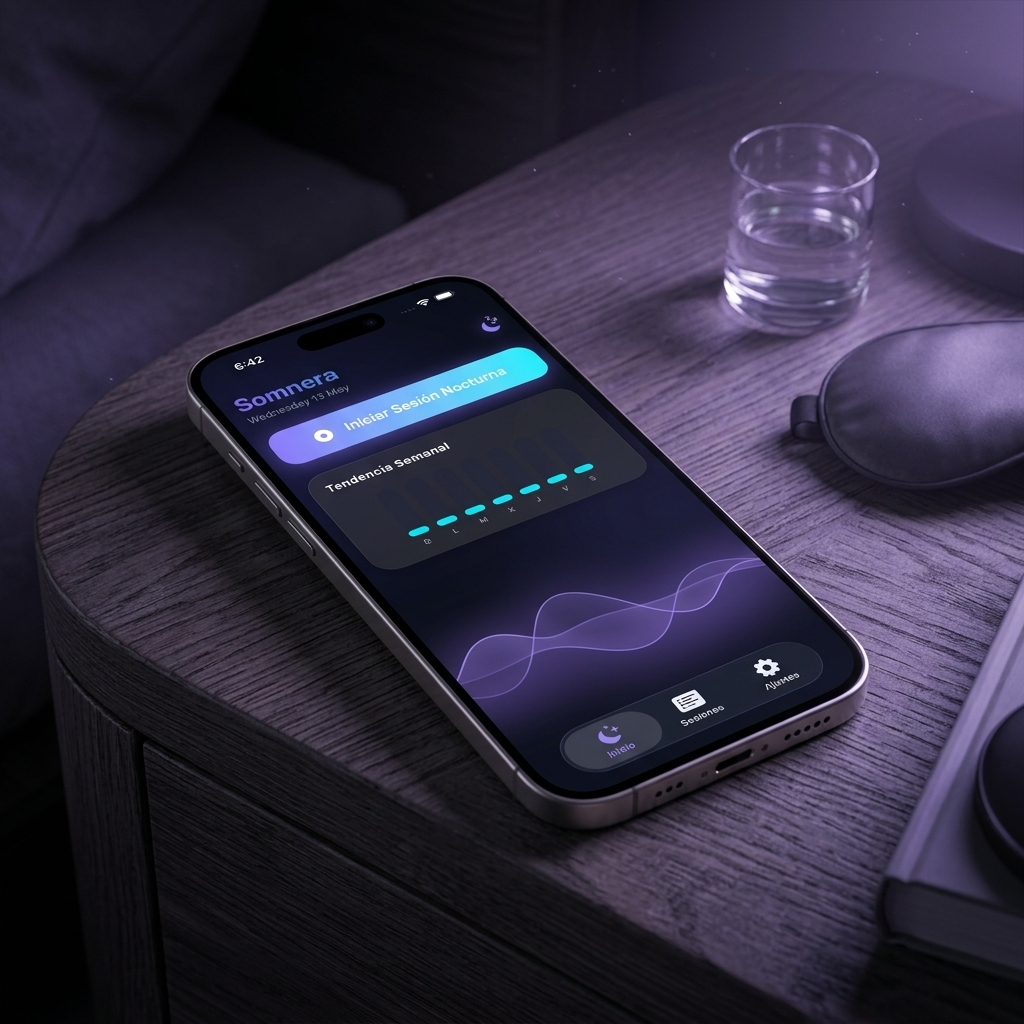
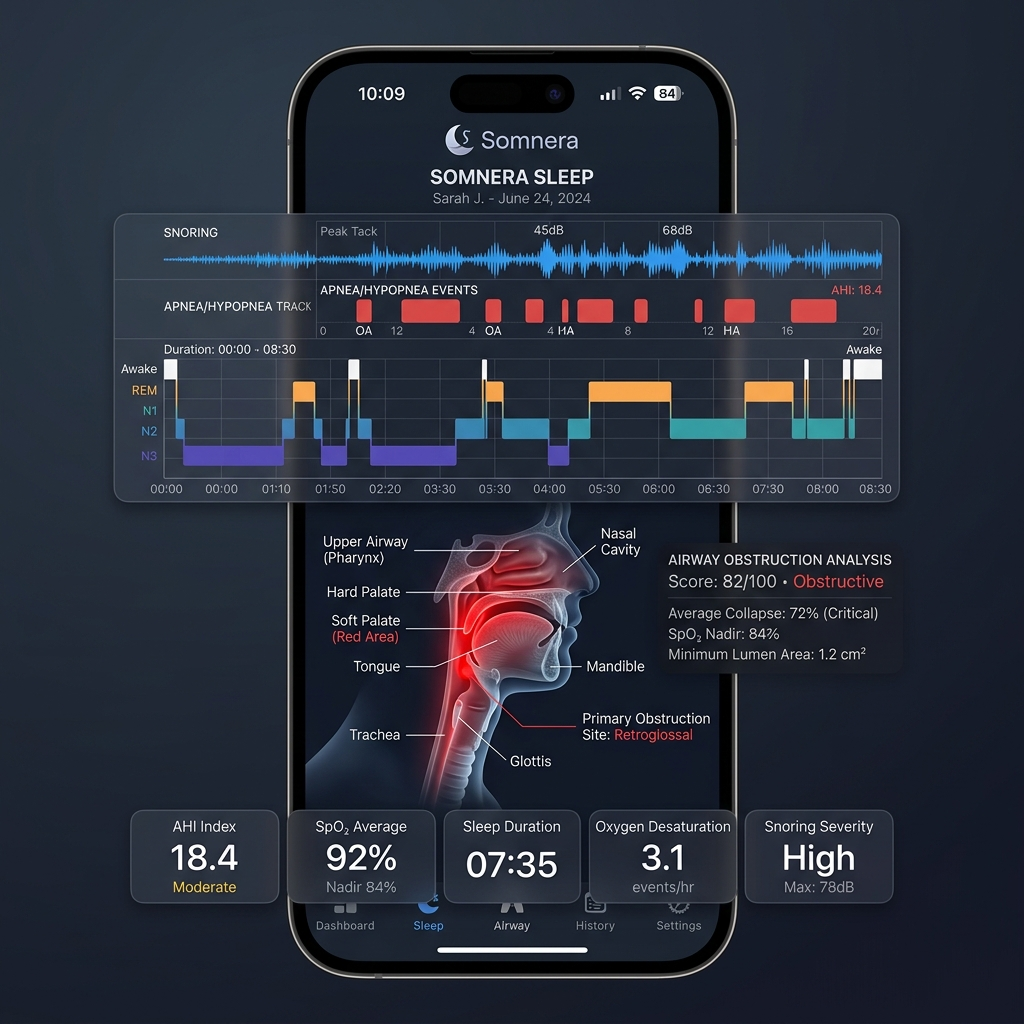
docs: update README with premium v2.1.0 mockups and medical-grade feature highlights

diff --git a/README.md b/README.md
@@ -1,6 +1,6 @@
 # 🎙️ Somnera — State-of-the-Art Sleep Diagnostics
 
-[![Version](https://img.shields.io/badge/Version-2.0.0-blue.svg)](https://github.com/Alucardo18/Somnera)
+[![Version](https://img.shields.io/badge/Version-2.1.0-blue.svg)](https://github.com/Alucardo18/Somnera)
 [![Platform](https://img.shields.io/badge/Platform-iOS%2017%2B-black.svg)](https://developer.apple.com/ios/)
 [![License](https://img.shields.io/badge/License-MIT-green.svg)](LICENSE)
 
@@ -20,8 +20,12 @@ A diferencia de las aplicaciones convencionales que dependen únicamente del aud
 
 ### 🔬 Procesamiento de Señal y AI Local
 - **Core ML & SoundAnalysis**: Implementación de un modelo de red neuronal convolucional (`SomneraClassifier`) optimizado para el Apple Neural Engine, capaz de identificar patrones de ronquidos en milisegundos.
-- **DSP Avanzado (vDSP)**: Uso intensivo del framework **Accelerate** para filtrado bandpass y análisis espectral con consumo energético mínimo.
+- **DSP Avanzado (vDSP)**: Uso intensivo del framework **Accelerate** para filtrado bandpass y análisis espectral de frecuencia (FFT).
+- **Digital Twin 3D**: Reconstrucción anatómica de la vía aérea en tiempo real. Mediante análisis espectral, Somnera identifica si la obstrucción es **Nasal, Palatal o Lingual**.
+- **PSG Medical Timeline**: Visualización de grado médico que muestra ondas de sonido y pausas respiratorias sincronizadas con el audio original.
 - **Audio Pipeline v2**: Grabación en formato **.caf (PCM Float32)** con amplificación dinámica x8 para una claridad diagnóstica superior durante la reproducción.
+
+![Somnera Recording Mode](Docs/Assets/recording_mockup.png)
 
 ### 💎 Diseño Premium & UX
 - **Glassmorphism Design System**: Una interfaz inmersiva basada en materiales ultra-delgados, gradientes dinámicos y micro-animaciones que reducen la fricción cognitiva durante el uso nocturno.